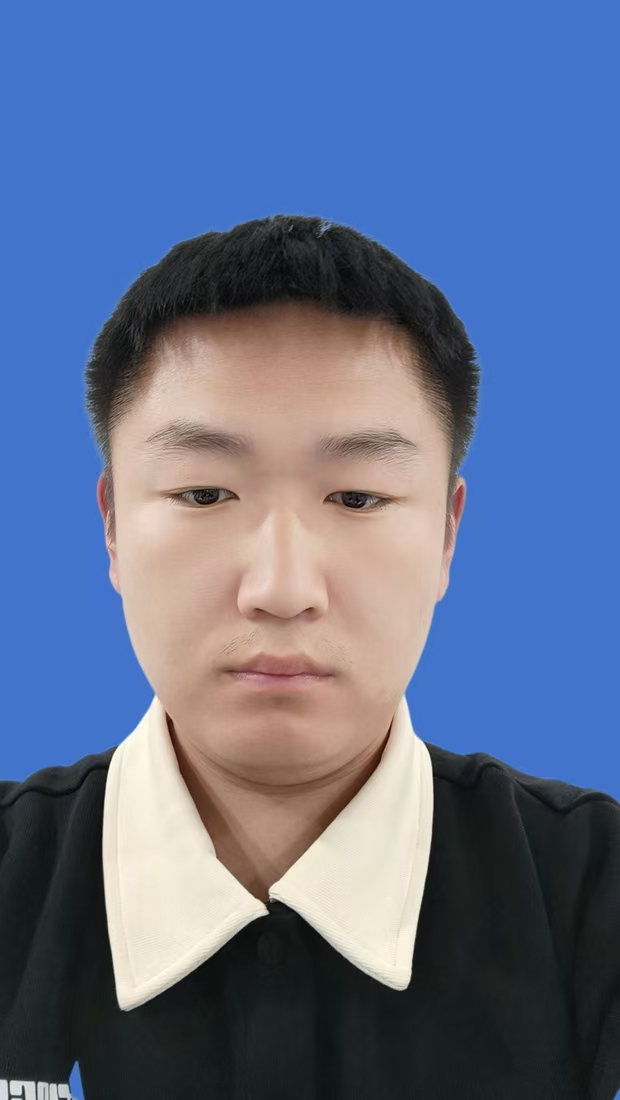
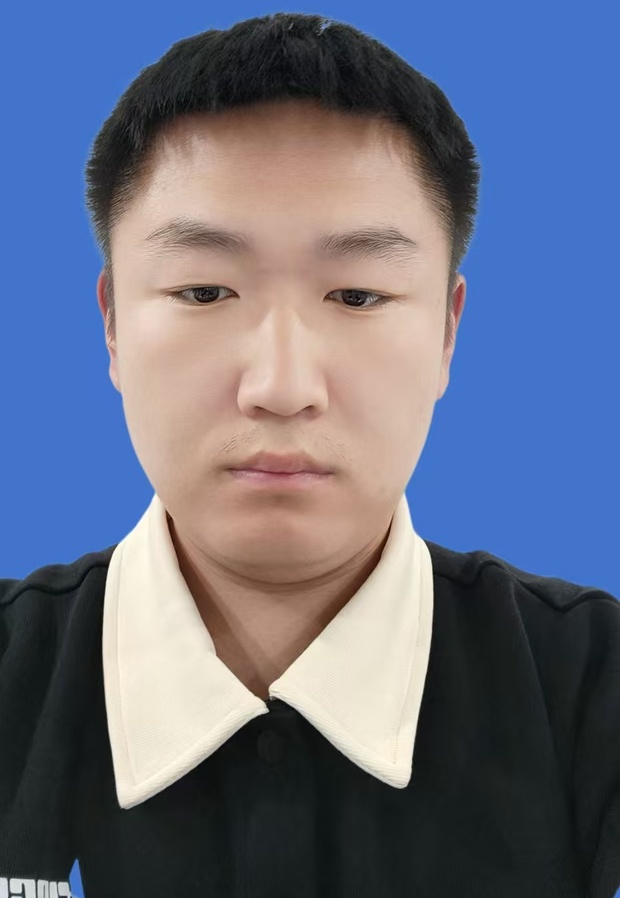
rstao

diff --git a/_pages/profiles.md b/_pages/profiles.md
@@ -15,8 +15,8 @@ nav_order: 3
       <center>
         <img src="../assets/img/people_imgs/tanchuangchuang.jpg" width=180 />
         <br/>
-        <font color="AAAAAA"><a href="https://chuangchuangtan.github.io/">Chuangchuang Tan</a> (co-supervised)</font>
-        <br/>(2021~)<br/>
+        <font color="AAAAAA"><a href="https://chuangchuangtan.github.io/">Chuangchuang Tan</a></font>
+        <br/>(co-supervised)<br/>(2021~)
       </center>
     </td>
   </tr>
@@ -157,7 +157,7 @@ nav_order: 3
     </td>
         <td  width="255" align="center">
       <center>
-        <img src="../assets/img/people_imgs/liruitao.jpg" width=180 />
+        <img src="../assets/img/people_imgs/liruitao.png" width=180 />
         <br/>
         <font>Ruitao Li</font><br/>
         (2024~)
